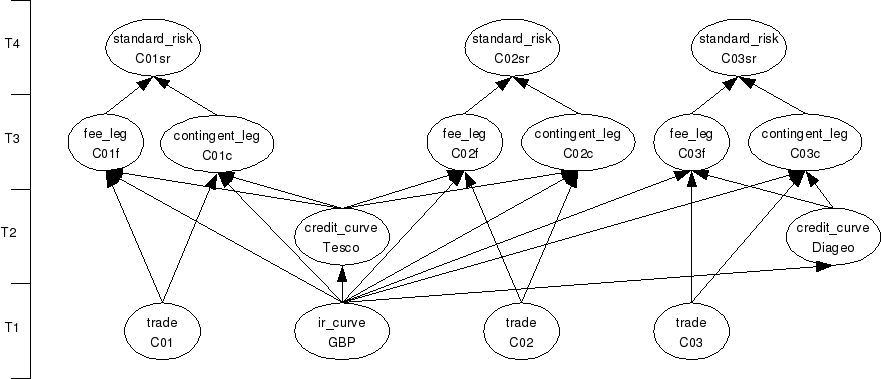
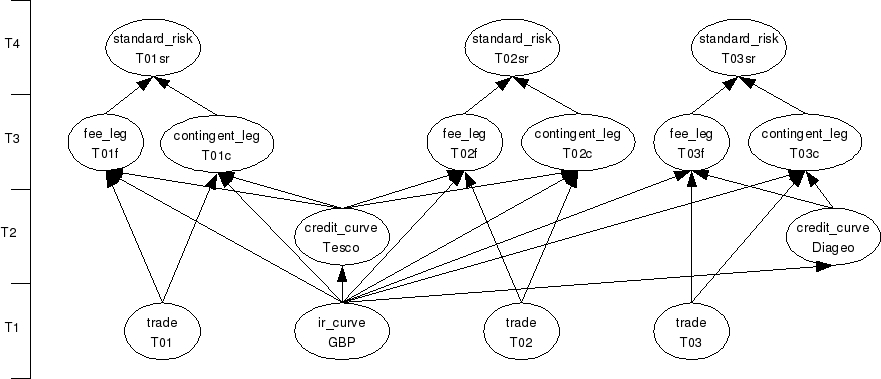
Working on docco.

diff --git a/jpm_cds/docco/jpm_cds.html b/jpm_cds/docco/jpm_cds.html
@@ -56,10 +56,10 @@ jpm_cds
 This application is based on the ISDA CDS Standard Model (version 1.7), developed and supported in collaboration with Markit Group Ltd. The original code is available here: <a href="http://www.cdsmodel.com/">http://www.cdsmodel.com/</a>
 </p>
 <p>
-The jpm_cds application is a port of the above application to the trad4 architecture.
+The jpm_cds application is a port of the ISDA application to the trad4 architecture.
 </p>
 <p>
-This release (v.0) represents Phase1 of this project and simply hooks a trad4 wrapper up to the ISDA function calls. Phase2 will represent a full port, where all the underlying structures and functions become fully intergrated into jpm_cds.
+This release (v1.0) represents Phase1 of this project and is simply a trad4 wrapper around the ISDA function calls. Phase2 will represent a full port, where all the underlying structures and functions become fully intergrated into jpm_cds.
 </p>
 <p>
 
@@ -74,11 +74,20 @@ The model is very similar to that of bond_risk, discussed at length in the trad4
 <img src="abstract.jpeg" alt="Abstract Diagram"/>
 </p>
 <p>
-
+From the abstract diagram we can see that the two legs are valued concurrently, and their pvs aggregated in standard_risk.
 </p>
 <h3>The concrete diagram</h3>
 <p>
 <img src="concrete.jpeg" alt="Concrete Diagram"/>
+</p>
+<p>
+We can see the advantages of the trad4 layout more clearly in the concrete diagram. This shows one ir_curve (GBP), two credit_curves (Tesco and Diageo) and three trades against those curves, two against Tesco (T01 and T02 - trade or ticket numbers) and one against Diegeo (T03). T01f and T01c are the fee and contingent legs corresponding to T01, and T01sr is the standard_risk (aka pv) of T01. In practise you would have a handfull of ir_curves, hundreds of credit_curves and thousands of trades.
+</p>
+<p>
+From this we can see that should the Tesco credit_curve move (or 'be marked' in the parlance) then the Tesco curve would need to be re-calculated once, the C01f, C01c, C02f and C02c would all run concurrently. Lastly C01sr and C02sr would fire, producing the new pvs of these trades.
+</p>
+<p>
+
 </p>
 <h3>The t4 files</h3>
 <p>
@@ -101,6 +110,20 @@ While we could just manage the memory better by deleting the old one, it would b
 </p>
 <p>
 Likewise consider the two legs - fee_leg and contingent_leg - with their respective calls to JpmcdsCdsFeeLegPV and JpmcdsCdsContingentLegPV. Both of these ISDA calls construct the respective leg, price it, and delete it. This is not in keeping with the trad4 philosophy. While both legs do need to be constructed, they don't need to be reconstructed each time an IR rate moves - the IR rate move has no bearing on the leg itself, only on the value of that leg, so let the legs persist between the two valuations. The only time we need change the leg is when the trade to which it subscribes changes, for example in the case of a start date correction.
+</p>
+<h4>Adding other risk measures</h4>
+<p>
+The IDSA model only produced pv. As we're already bootstrapping the credit_curve, there's little overhead of also bootstrappin the credit_curve perturbed by +-1bp and using these curves to calculate the cr01 (cr01 being the shift in pv given a +-1bp shift in the credit_curve. This would involve extending the TCurve structure to add:
+</p>
+<blockquote><pre>
+TRatePt* fArray_p01
+TRatePt* fArray_m01
+</pre></blockquote>
+<p>
+These arrays would hold the credit_curve (for cr01) or ir_curve (for dv01) perturbed up and down by 1bp. Then the legs would also produce pvcrp01, pvcrm01, pvdvp01 and pvdvm01 which would be used in standard_risk to aggregate into trade-level cr01 and dv01.
+</p>
+<p>
+Likewise we could produce cr01 by gridpoint, by intoducing a range of fArrays corrosponding to a range of curves perurbed by gridpoint. This would produce a ladder of cr01s. This would come at the expense of a fair bit of RAM, but as the number of curves is relativly low compared to the number of trades this should not present a problem in practice. 
 </p>
 <h4>precomp_v3</h4>
 <p>
